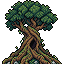
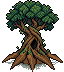
art: UI rework Phase 1 set
Castle Hatchery at four levels, 64x64 habitats and Aerie whose face is the footprint diamond, grounded Ancient Tree, upgrade post, arrow, zoom controls. Prompts, seeds and the art list recorded; size pins updated.

diff --git a/apps/web/test/art.test.ts b/apps/web/test/art.test.ts
@@ -50,9 +50,15 @@ describe('art v1 manifest', () => {
       expect(s.src, key).not.toBe('')
       expect([s.w, s.h], key).toEqual([w, h])
     }
-    for (const e of ELEMENTS_WITH_ART) fit(`habitat.${e}`, art.habitat[e], 64, 56)
+    for (const e of ELEMENTS_WITH_ART) fit(`habitat.${e}`, art.habitat[e], 64, 64)
     fit('building.nexus', art.building.nexus, 80, 64)
-    fit('building.hatchery', art.building.hatchery, 64, 64)
+    fit('building.hatchery', art.building.hatchery, 80, 96)
+    for (const l of [2, 3, 4]) fit(`building.hatchery.${l}`, art.building.hatcheryLevel[l]!, 80, 96)
+    fit('building.goldenAerie', art.building.goldenAerie!, 64, 64)
+    fit('obstacle.ancientTree', art.obstacle.ancientTree, 64, 72)
+    fit('ui.island.upgradePost', art.island.upgradePost, 24, 32)
+    fit('ui.island.arrow', art.island.arrow, 32, 40)
+    for (const k of ['minus', 'plus', 'thumb']) fit(`ui.zoom.${k}`, art.hud[`ui.zoom.${k}`]!, 32, 32)
     fit('building.farmPlot', art.building.farmPlot, 48, 40)
     fit('building.nest', art.building.nest, 32, 32)
     for (const id of Object.keys(DECORATIONS) as DecorationId[]) fit(id, art.decoration[id], DECORATIONS[id].size * 16, DECORATIONS[id].size * 16)
@@ -87,7 +93,7 @@ describe('art v1 manifest', () => {
       expect(a.top!, key).toBeGreaterThanOrEqual(0)
       expect(a.top!, key).toBeLessThan(a.h)
     }
-    expect(v1.assets['building.hatchery']!.top).toBe(17)
+    expect(v1.assets['building.hatchery']!.top).toBe(13)
     expect(v1.assets['island.locked']!.top).toBe(0)
   })
 

diff --git a/apps/web/e2e/island.spec.ts b/apps/web/e2e/island.spec.ts
@@ -35,8 +35,8 @@ test.beforeEach(async ({ page, request }) => {
 })
 
 test('a click on a cell centre is that cell, and on a building selects it', async ({ page }) => {
-  // Free cells of the starting island, clear of its obstacles (U6), then one on a plot for sale (plot 2), clear of its sign and obstacles (a sign's box takes the tap): a ghost may go there, red (R58). (3, 3) is on a plot not offered, so it is no cell any more.
-  for (const [col, row] of [[14, 13], [22, 13], [18, 13], [15, 14], [22, 6]] as const) {
+  // Free cells of the starting island, clear of its obstacles (U6), then one on a plot for sale (plot 2), clear of its sign, its obstacles and the crown of plot 7's Ancient Tree (a sign's box takes the tap): a ghost may go there, red (R58). (3, 3) is on a plot not offered, so it is no cell any more.
+  for (const [col, row] of [[14, 13], [22, 13], [18, 13], [15, 14], [21, 6]] as const) {
     const p = await cellPoint(page, col, row)
     await page.evaluate(() => { window.__seen!.length = 0 })
     await page.mouse.click(p.x, p.y)

diff --git a/apps/web/art/prompts.md b/apps/web/art/prompts.md
@@ -264,3 +264,61 @@ Backdrop pass (code): sea moved up 30 px and nature 40 px so both standing spots
 Champion loop (code): frame 0 is the generated frame, unchanged. Frames 1 and 2 move the rows above 55 % of the body height down 1 px; amber pixels brighten by 1, 1.12, 1.28, 1.12 over the four frames. The egg takes only the glow.
 
 Champion adult prompt: "same dragon, same pose, facing left: turn it into a regal heavily armoured legendary war-drake: dark crimson hide, big riveted steel plates over shoulders, chest and tail, a horned visored steel helmet on the head, a crest of crimson spines on the neck, a dull amber glow in a chest seam, the tail ends in a big spiked steel club. Crisp, 1px dark outline, transparent background". Juvenile: "same dragon one growth stage younger, same facing left: smaller steel plates on the shoulders only, a bare crimson head with no helmet and two small horn buds, shorter tail with a small steel knob, amber glow in the chest seam". Hatchling: "same hatchling, same pose, facing right: a round dark crimson baby dragon with two tiny steel studs on its brow and a bright amber spark in its eye, small steel tail tip".
+
+## UI rework Phase 1 set (2026-11-02)
+
+Keys follow `docs/superpowers/plans/2026-11-01-ui-rework-phase1.md` Task 7. Cost 43 generations (989 before, 946 after). Original designs: the old v1 sheets are only start images for habitats, Aerie and tree; the castle starts from a code block-out. No art copied from the layout references, which were used only for composition.
+
+| Run | Tool | Cost | Used for |
+| --- | --- | --- | --- |
+| Sky | `create_image_pixen` 480x272, seed 715 (seed 702 discarded: floating rock in the middle) | 2 | `ground.sky` |
+| Clouds | `create_image_pixen` 96x40, no background, seeds 703, 724, 722 (704, 705, 723 discarded: sparkles, peach balls, a tray of puffs) | 6 | `ground.cloud.0..2` |
+| Rock | `create_image_pixen` 64x64, seed 719 (seed 706 discarded: no facets) | 2 | `ground.rock` |
+| Rim | `create_image_pixen`, 48x32 seeds 716, 717; 40x32 seed 718; 32x32 seed 710 (707 a saucer, 708 a tank, 709 a floating islet, discarded) | 7 | `ground.rim.0..3` |
+| Waterfall | `create_image_pixen` 32x96, seeds 711 and 720, both discarded; drawn in code | 2 | `ground.waterfall` |
+| Sign | `create_image_pixen` 48x48, seed 712, blank board; letters in code | 1 | `island.sign` |
+| Tree | `edit_image_pixen` on a code start, 64x72, seed 742 (741 thin spider roots, 743 stray pixels in the roots, discarded) | 3 | `obstacle.ancientTree` |
+| Castle Level 1 | `edit_image_pixen` on a code block-out, 80x96, seed 731, then on that result seed 733 (`create_image_pixen` seed 701 and edit seed 732 discarded: nest on a wall top; gate wall closing the front) | 4 | `building.hatchery` |
+| Castle Levels 2 to 4 | `edit_image_pixen` chained, seeds 734, 735, 736; Level 1's courtyard pasted back each time | 3 | `building.hatchery.2`, `.3`, `.4` |
+| Habitats, Aerie | `edit_image_pixen` on a 1.25x nearest-neighbour start of v1 frame 0, 64x64, seed 721 | 11 | frame 0 of `habitat.<element>`, `building.goldenAerie` |
+| Post | `create_image_pixen` 32x32, seed 713, discarded (plate too wide for 24 px); drawn in code | 1 | `ui.island.upgradePost` |
+| Arrow | `create_image_pixen` 32x40, seed 714; orange brightened in code | 1 | `ui.island.arrow` |
+| Zoom controls | drawn in code | 0 | `ui.zoom.minus`, `.plus`, `.thumb` |
+
+Sky: "Empty open sky background: teal blue sky at the top fading to warm cream near the horizon, soft rounded puffy cream clouds only along the left and right edges, a band of far misty blue-green hills along the very bottom. The centre of the image is empty clear sky. Nothing floating, no rocks, no islands. Scene only: no interface, no HUD, no icons, no text, no characters, no border, no frame. Crisp pixel art, soft low contrast". "Floating island game" in the prompt draws a floating island.
+
+Clouds, all `outline` lineless: 703 "single soft puffy cream white cloud, wide and low, rounded lobes with pale warm shadow at the bottom, no outline, crisp pixel art, transparent background"; 724 (view side) "wide flat stratocumulus cloud, long and low, several soft rounded lobes along the top, flat bottom, cream, no outline, crisp pixel art, transparent background"; 722 "one big soft cream cumulus cloud with rounded lobes, warm cream colour, pale tan-rose shadow at the bottom, flat base, no outline, crisp pixel art, transparent background".
+
+Rock (view side, lineless): "rough grey cliff rock wall texture with large tall vertical facets and long vertical cracks, broad flat planes of light grey and mid grey with dark grey crevices, cool colour, fills the whole image from edge to edge, crisp pixel art".
+
+Rim (view side, black outline). 716: "a single natural grey boulder, big rounded stone with pale grey top and dark grey base, a few cracks, simple solid rock, 1px dark outline, crisp pixel art, transparent background". 717: "a single natural grey rock with big flat angular facets, pointed on one side, pale grey lit planes and dark grey shadow planes, solid stone, 1px dark outline, crisp pixel art, transparent background". 718: "two natural grey rocks side by side, one tall and one low, pale grey lit top and dark grey shadow, solid stone, 1px dark outline, crisp pixel art, transparent background". 710 (no view): "small low flat grey boulder, wider than it is tall, in the lower part of the image, pale highlight on top, dark underside, 1px dark outline, crisp pixel art, transparent background". Saying "rim of a floating island" draws saucers, tanks and islets.
+
+Sign: "blank wooden sign board on a single wooden post stuck in a small tuft of grass, front view, wide empty rectangular plank board with two nails, warm brown wood with lighter face, completely blank board, no writing, no symbols, 1px dark outline, crisp pixel art, transparent background".
+
+Arrow: "one bold chunky arrow pointing straight down, bright orange with lighter yellow-orange highlight on top and dark orange shading on the bottom edge, thick dark brown outline, flat simple game UI marker, fills the canvas, crisp pixel art, transparent background, no text".
+
+Tree: "the same ancient tree, same crown, same twisted trunk and hollow: the trunk base spreads into thick gnarled bark roots that hug the ground and taper to points, same bark colours and 1px dark outline as the trunk, roots of uneven length, irregular bottom edge, no flat cut, crisp pixel art, transparent background".
+
+Castle. Block-out 731: "Redraw as a polished fantasy castle in crisp pixel art, keep this exact layout: pale grey stone blocks with visible masonry, crenellated ring wall around the back and sides, round keep tower at the back with a small teal banner, two small round corner towers, wall open at the front, green courtyard, and a round empty woven straw nest of warm golden straw at the front centre. 1px dark outline, transparent background, no egg". Level 1, 733: "the same castle, same walls, same towers, same position: the ground of the courtyard becomes pale worn flagstones with little tufts of grass, the disc at the front becomes a clearly woven round straw nest, warm golden straw strands sticking out at its rim, shallow empty darker straw hollow inside, the keep top gets crenellations. Crisp, 1px dark outline, transparent background, no egg". Level 2, 734: "the same castle, same camera, same base, same flagstones and same empty straw nest in the same place: upgraded one level, add tall teal pennant banners on both small corner towers and a teal cloth banner hanging on the keep front. Do not change the courtyard. Crisp, 1px dark outline, transparent background, no egg". Level 3, 735: "the same castle, same camera, same base, keep the courtyard and the empty straw nest exactly: upgraded one level, the keep is taller, add one extra round pale grey stone tower with crenellations rising from the back wall on the left side of the keep, with a small teal flag. Keep all teal banners. Crisp, 1px dark outline, transparent background, no egg". Level 4, 736: "the same castle, same camera, same base, keep the courtyard and the empty straw nest exactly: final upgrade, add a matching round pale grey stone tower with crenellations rising from the back wall on the right side of the keep, a slim pointed teal roof with a gold finial on the keep, gold trim on the teal banners. Crisp, 1px dark outline, transparent background, no egg". Level 2's edit dropped the nest although told to keep it, so Level 1's courtyard is pasted back on Levels 2 to 4 (wedge `abs(x-40) <= min((y-66)*0.95, 22)`, rows 66 to 95): the nest is pixel-identical on all four. Nest centre about (40, 82), about 28x14; base bottom vertex (40, 95).
+
+Habitats, all seed 721: "redraw cleanly as crisp pixel art, same design: <design>, the platform fills the whole diamond, sharp 1px dark outline, transparent background". Designs: terra two tall tan standing stones at the back corner, a flat brown earth platform; flame slim black lava spire with flame at the back corner, black rock platform with glowing orange lava cracks; sea small grey rock with a little waterfall at the back corner, blue water platform, one lily pad; nature small leafy tree with ferns at the back corner, green meadow platform with tiny flowers and a stone rim; electric slim copper lightning rod with a bright yellow spark at the back corner, slate grey platform with copper circuit lines and copper rim; ice tall pointed blue-white ice crystals at the back corner, cracked white ice platform with a bright rim; metal small iron forge chimney with glowing furnace hatch and an anvil at the back corner, grey steel plate platform with rust seams; dark slim black obelisk with violet runes and a violet flame at the back corner, dark purple stone platform with glowing violet rim; light slim white marble pillar with a small radiant golden sun at the back corner, white marble platform with gold inlay rim; war two crimson banners on poles and a small iron brazier with fire at the back, dark grey-brown stone slab platform; Aerie ring of ten small glowing coloured gem motes floating above the back half, white stone platform with gold trim.
+
+Habitat start (code): rows from old row 28 down scale 1.25x about the bottom vertex; rows above it compress where the prop would leave the canvas (flame, nature, metal, dark, electric, light, terra props are slightly shorter than a straight 1.25x).
+
+Habitat silhouette (code): every edit keeps a 5 px slab side under the face (rows 42 to 47 full width, measured on all 11), so the art moves down 5 px and the face itself becomes the exact footprint diamond: rows 32 to 63, 2 px wide at the vertices, 64 px wide on rows 47 and 48. Below row 40 nothing stays outside the diamond and the diamond is filled; 1 px dark outline on those edges, 2 px of shade inside the lower edges in place of the lost slab side. Rim spurs above row 40 beside the prop are removed on sea, nature, electric, dark, flame and light.
+
+Habitat loop (code), 4 frames at 4 fps, frame 0 is the generated frame on every sheet. Flame, dark, electric: the glow's hue band brightens by 1, 1.12, 1.28, 1.12 (electric 1, 1.15, 1.3, 1.1). Metal: forge glow above row 40. War: fire above row 44. Light: sun above row 34. Aerie: gems above row 32. Sea: a light band moves across the blue pixels. Nature, terra: pale motes rise on frames 1 to 3. Ice: one white glint per frame on the crystals.
+
+Rock (code): pale strip in rows 0 to 3 replaced; blacks lifted (`62 + 0.72 * luminance`, cool tint) so crevices do not stripe when tiled; wrap by a min-error cut into a donor strip from inside the tile, both axes, at least 3 px per line; the two rows meeting at the wrap mixed 60/40.
+
+Waterfall (code, no generated pixels): 28 columns of runs 7 to 19 rows long in one five-colour blue-white ramp, periodic over 48 rows, outer columns darker. Frames scroll the rows by 12. Foam lip, drips, edge insets and mist are the same on every frame. Mist: from row 60 the water whitens, and ordered Bayer dither steps alpha through 192, 128, 64, 0, reaching 0 before the bottom row.
+
+Clouds (code): specks dropped, alpha hardened, luminance mapped to one cream ramp from rose-tan shadow to near-white, which also dissolves the outlines the model draws anyway. Centred in x.
+
+Rim (code): alpha hardened, specks dropped, desaturated and cooled to the rock's grey.
+
+Sign (code): board lightened, nails and dark marks in the text area replaced by plank colour, "FOR" and "SALE" on two lines from a hand-defined 3x5 font, drawn 2 px wide and 8 rows tall, dark brown.
+
+Tree start and shadow (code): v1 tree on a 64x72 canvas, hard-cut base removed, five tapered outlined root wedges added. After the edit, dark translucent shadow pixels (alpha 120 and 170) are scattered under the roots.
+
+Post (code): 24x32, wood plate and post, green up-arrow with light and dark edges. Zoom (code): 32x32 light round plate with a bevel, dark minus and plus glyphs; rounded light thumb with three grip lines.

diff --git a/docs/art/ui-rework-p1-art-list.md b/docs/art/ui-rework-p1-art-list.md
@@ -1,0 +1,36 @@
+# UI rework Phase 1 art list
+
+The set for `docs/superpowers/plans/2026-11-01-ui-rework-phase1.md` (Task 7). Everything is in `apps/web/public/art/v1/`, with prompts, seeds and code steps in `apps/web/art/prompts.md` ("UI rework Phase 1 set"). Cost 43 generations (989 before, 946 after). Original designs: the old v1 sheets are start images for habitats, Aerie and tree, and the castle starts from a code block-out. The layout references were used for composition only. No art for the other 5 islands.
+
+`w` and `h` are one frame's size.
+
+| Key | Size | Frames | How made |
+| --- | --- | --- | --- |
+| `ground.sky` | 480x272 | 1 | PixelLab (`create_image_pixen`). Landed in Task 3. |
+| `ground.cloud.0..2` | 96x40 | 1 | PixelLab, then alpha, specks and colour ramp in code. Landed in Task 3. |
+| `ground.rock` | 64x64 | 1 | PixelLab, then made seamless in code. Landed in Task 3. |
+| `ground.rim.0`, `.1` | 48x32 | 1 | PixelLab, then cooled to the rock's grey in code. Landed in Task 3. |
+| `ground.rim.2` | 40x32 | 1 | Same. Landed in Task 3. |
+| `ground.rim.3` | 32x32 | 1 | Same. Landed in Task 3. |
+| `ground.waterfall` | 32x96 | 4 @ 8 fps | **Code-drawn, not PixelLab:** both generated frames were unusable. Landed in Task 3. |
+| `island.sign` | 48x48 | 1 | PixelLab blank board; "FOR SALE" lettered in code. Landed in Task 3. |
+| `obstacle.ancientTree` | 64x72 | 1 | PixelLab edit on a code start: the same tree, roots flaring onto the tile, shadow in code. |
+| `building.hatchery`, `.2`, `.3`, `.4` | 80x96 | 1 | PixelLab edits on a code block-out, chained level to level. Level 1's courtyard is pasted back on 2 to 4, so the nest is pixel-identical on all four. |
+| `habitat.terra`, `flame`, `sea`, `nature`, `electric`, `ice`, `metal`, `dark`, `light`, `war` | 64x64 | 4 @ 4 fps | PixelLab edit on a 1.25x start of the old sheet for frame 0; silhouette trimmed to the footprint diamond and the loop made in code (frame 0 fixed, effect pixels only). |
+| `building.goldenAerie` | 64x64 | 4 @ 4 fps | Same. |
+| `ui.island.upgradePost` | 24x32 | 1 | **Code-drawn, not PixelLab:** the generated plate was too wide for 24 px. |
+| `ui.island.arrow` | 32x40 | 1 | PixelLab; orange brightened in code. |
+| `ui.zoom.minus`, `.plus`, `.thumb` | 32x32 | 1 | **Code-drawn, not PixelLab:** plainer and cleaner than a generated frame at this size. |
+
+## Where the art meets the code
+
+- **Habitats and Aerie (U11):** the face is exactly the footprint diamond, rows 32 to 63 with the bottom vertex at x 31/32, y 63. `fitFootprint` draws them at scale 1. Residents draw at `HABITAT_DRAGON_SCALE` (0.75).
+- **Castle (U14):** drawn at scale 1, its bottom centre on the footprint's bottom vertex, so the walls overhang the 64-wide footprint by up to 8 px a side. The nest is about 28x14, centred at (40, 82): 14 px above the anchor. `HATCHERY_NEST` in `apps/web/src/game/layout.ts` places eggs in it at `NEST_EGG_HATCHERY_SCALE` (0.5).
+- **Upgrade post:** drawn at `UPGRADE_POST.scale` (0.5), 12x16 in the world. At 1 it hid its neighbour's residents.
+- **Arrow:** drawn at `ARROW_SCALE` (0.5).
+- **Zoom controls:** in the `hud` set by `HUD_KEY`, for React (Task 6). No scene loads them. The post and arrow are loaded into Phaser by `artEntries`.
+
+## Weak spots to redo if there is budget
+
+- `habitat.sea`: the lily pad is slightly clipped.
+- `habitat.electric`: plain beside the others.
